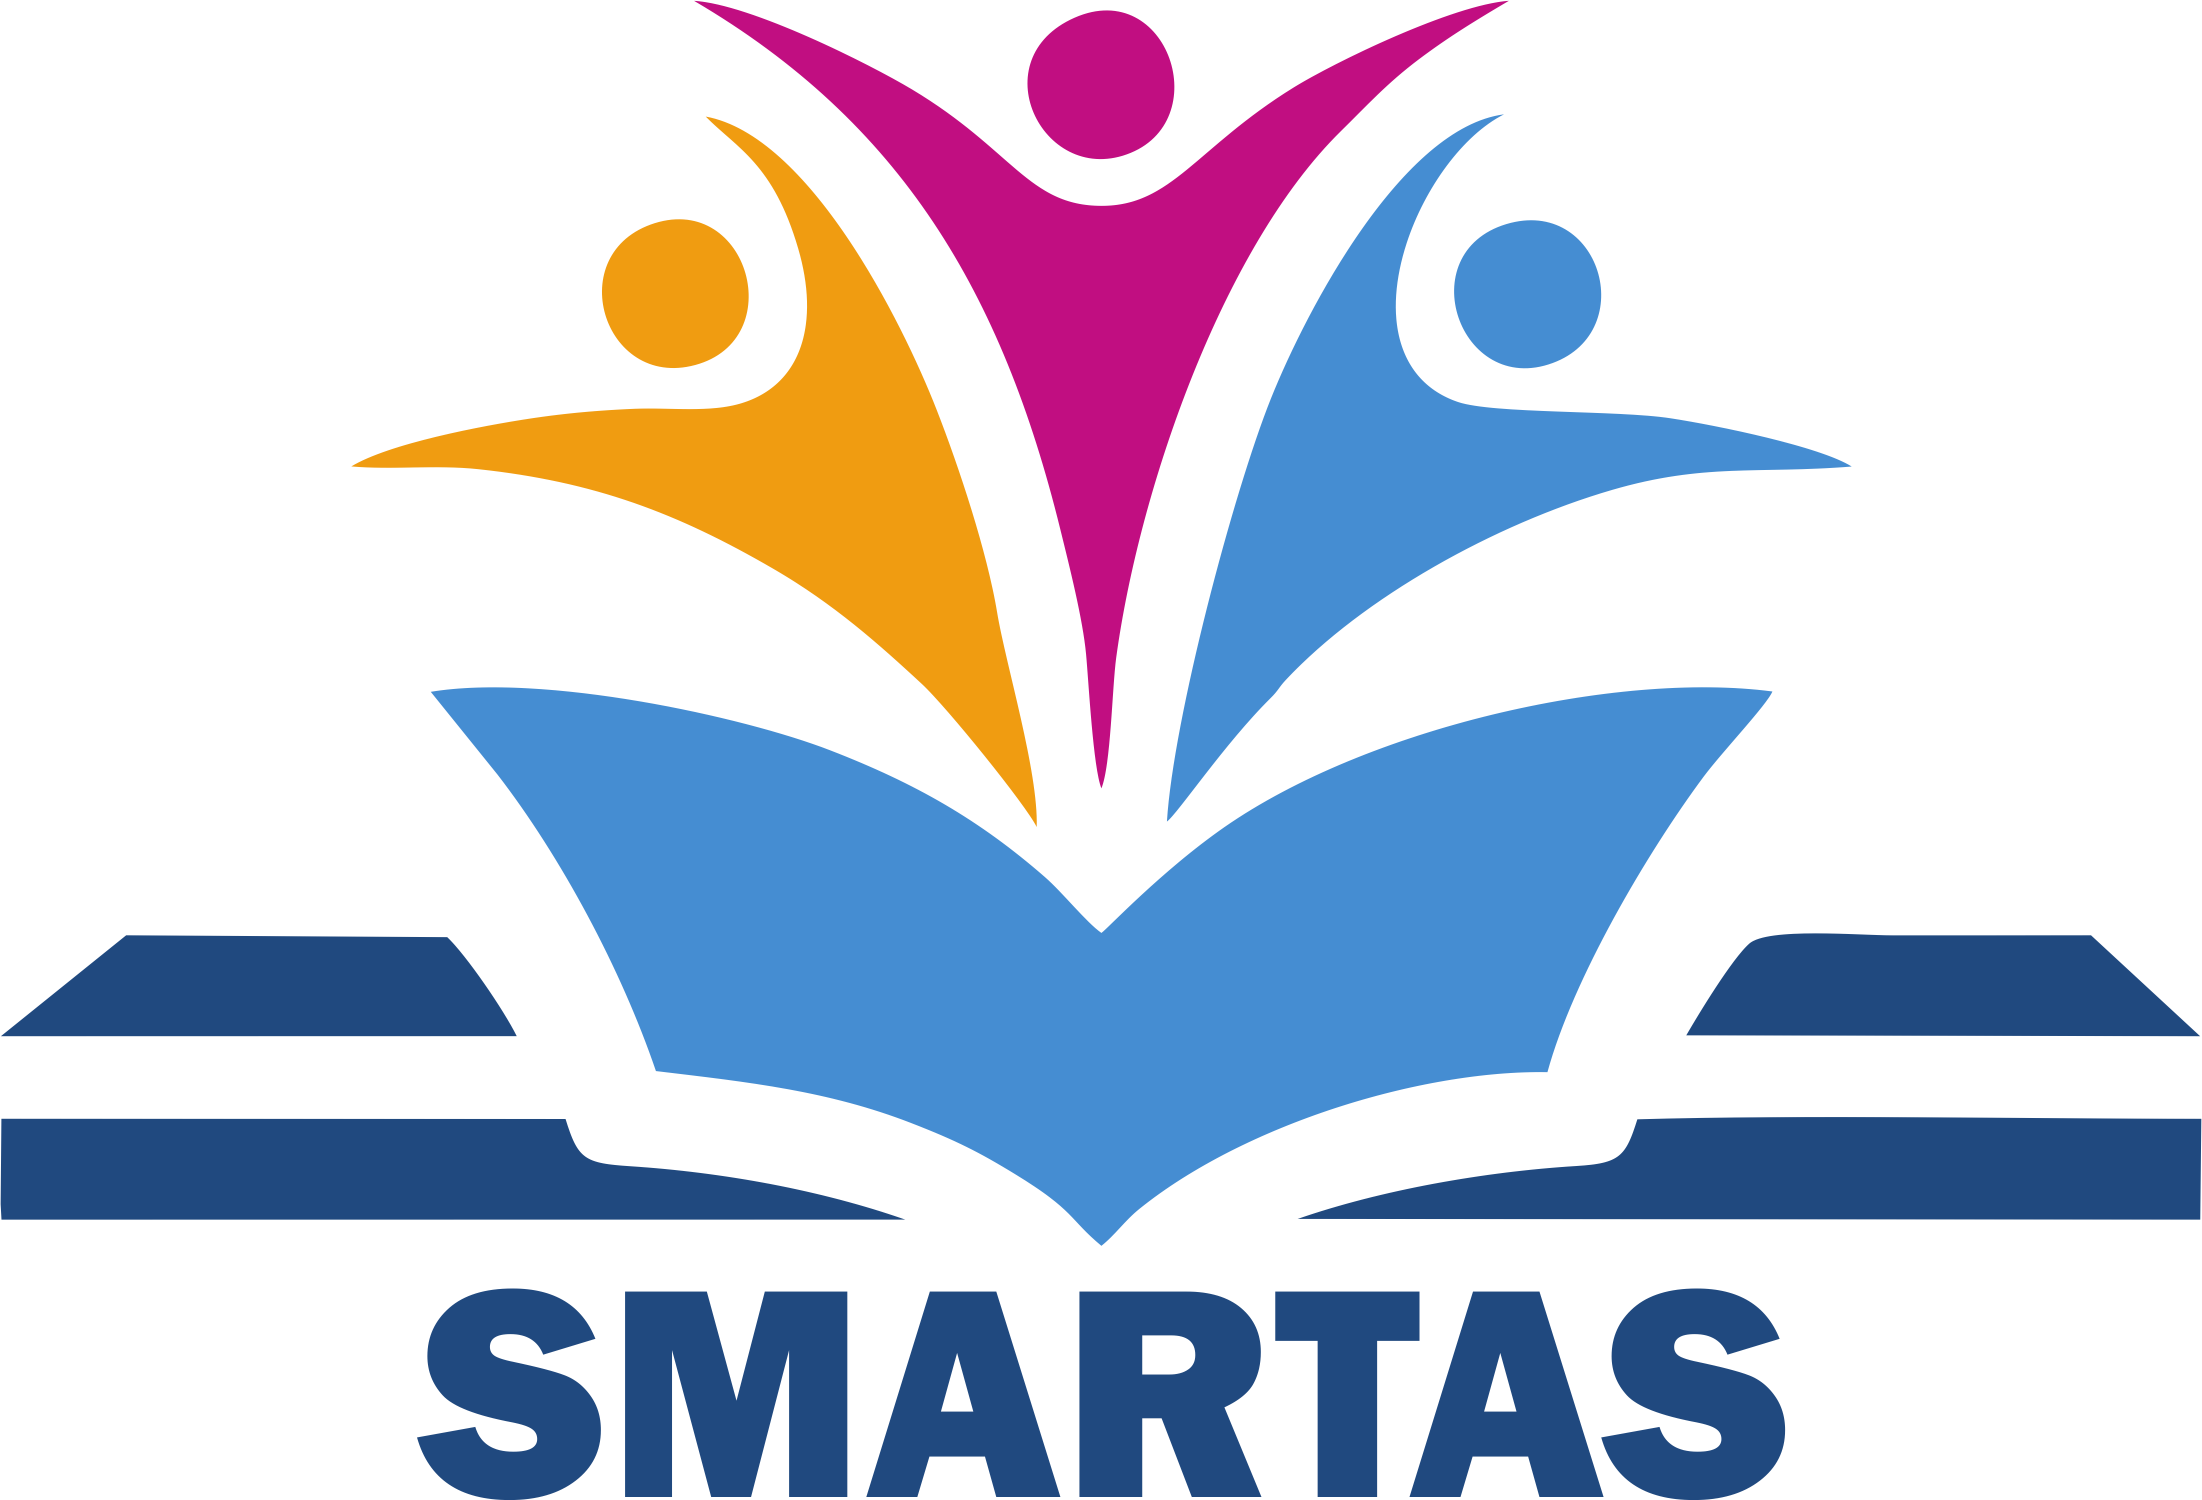
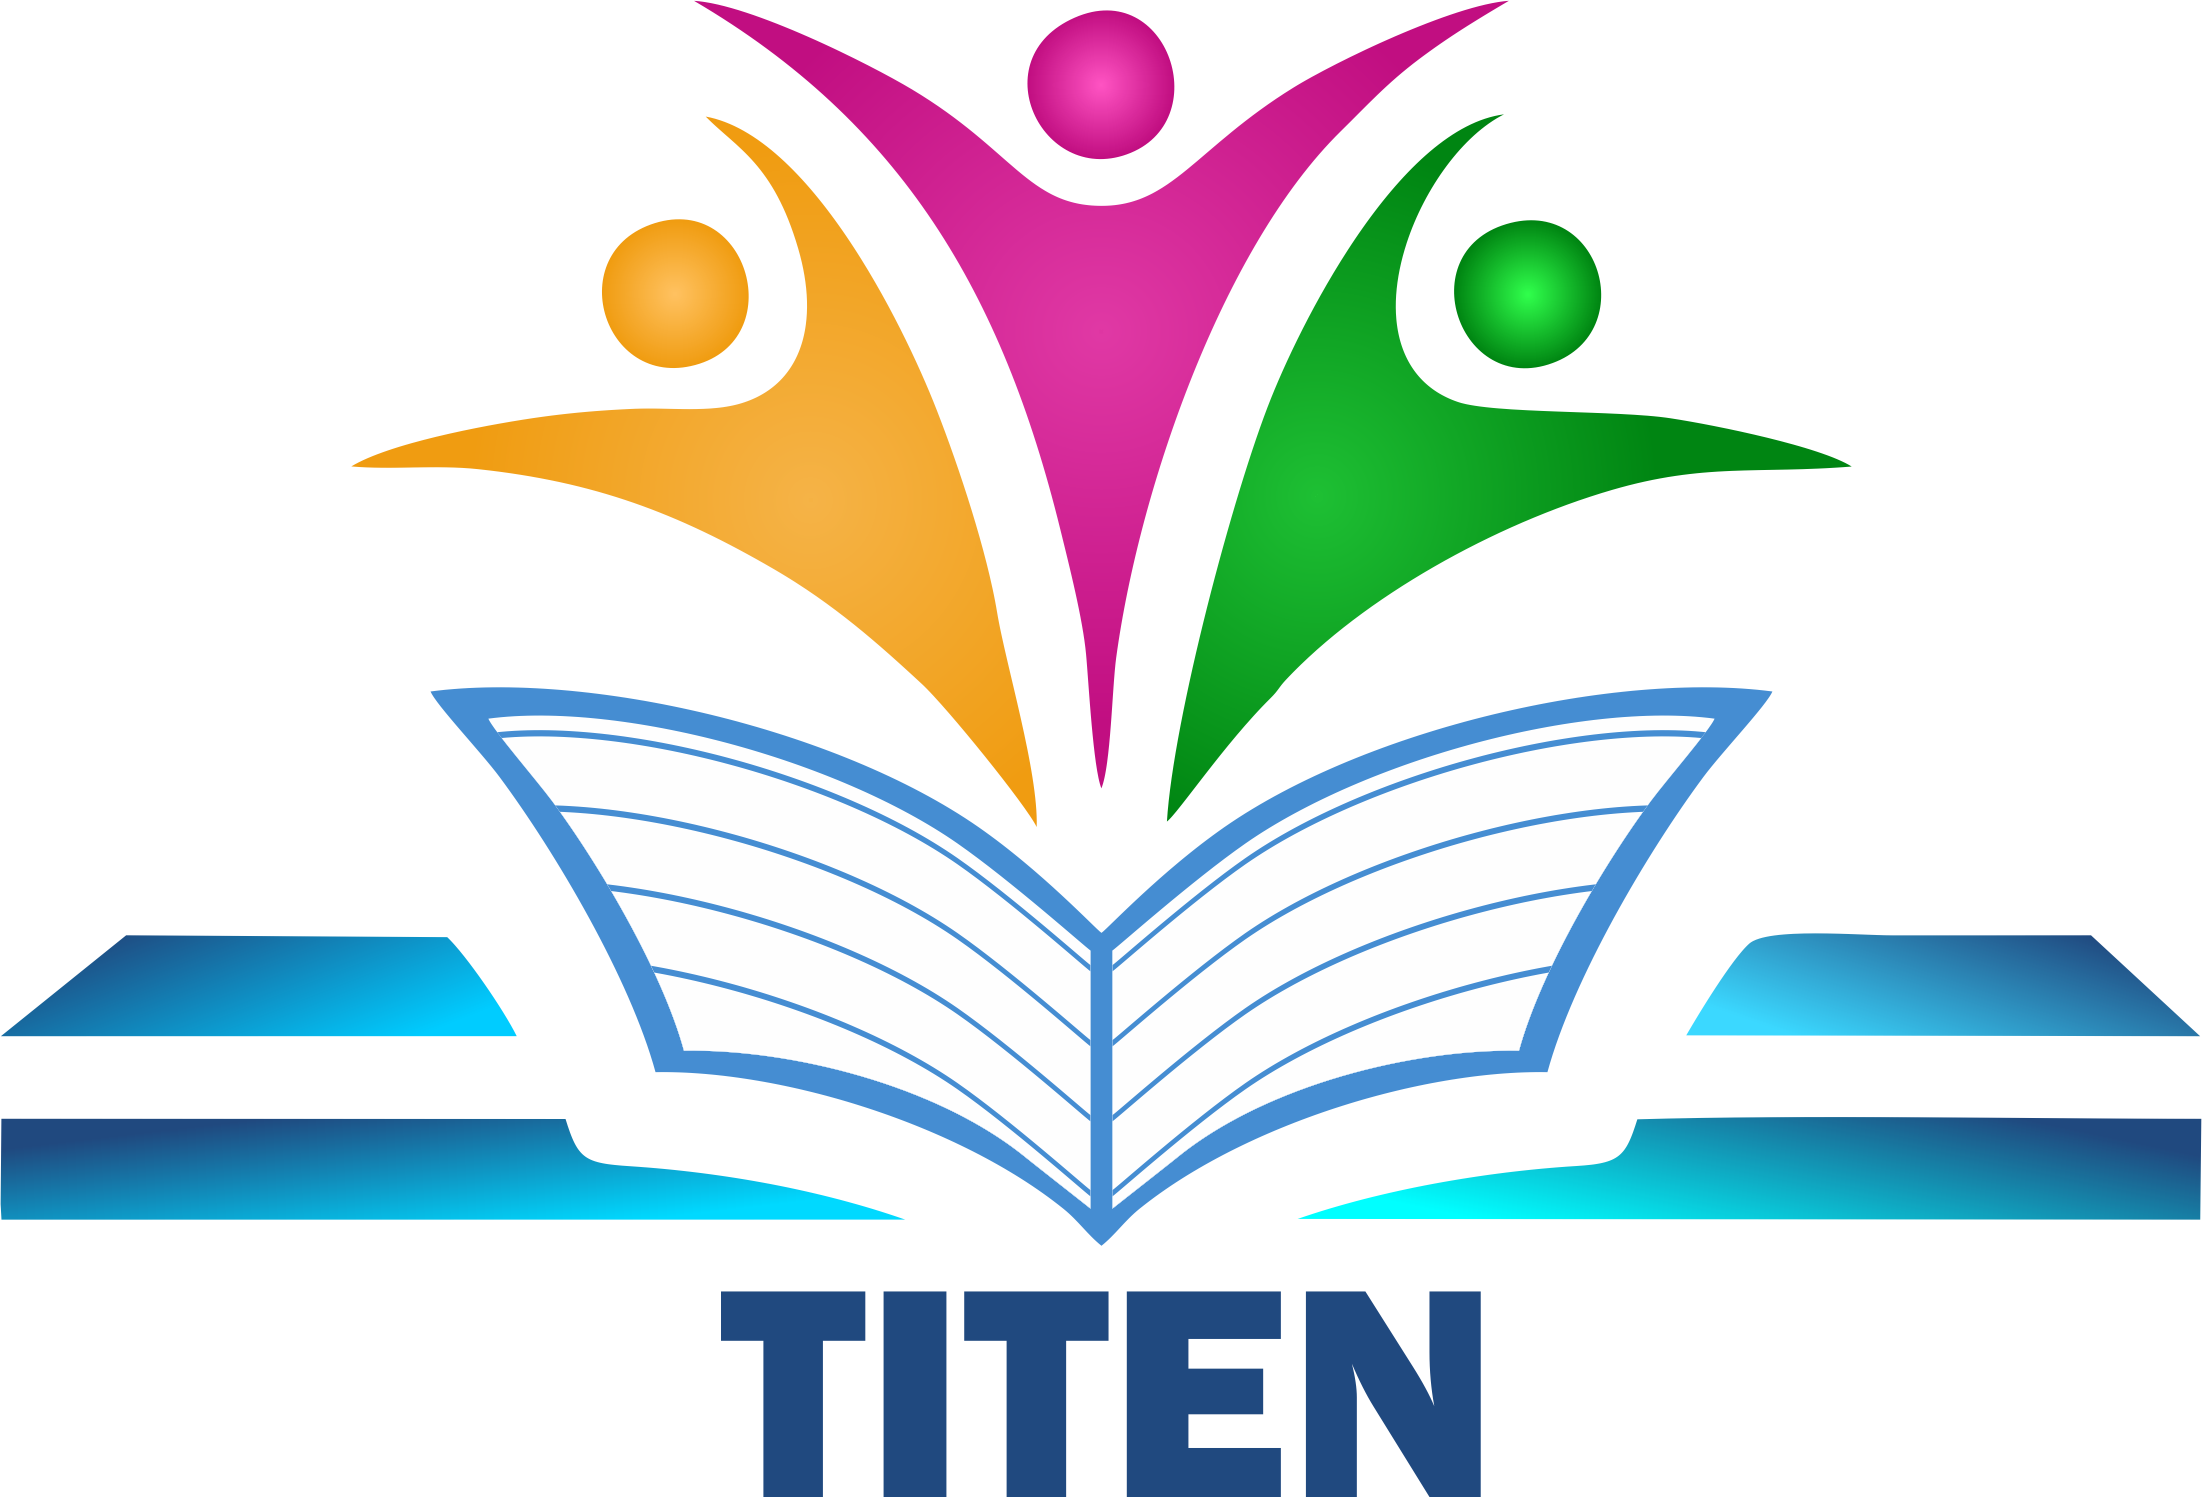
titen

diff --git a/src/components/layout/AppSidebar.tsx b/src/components/layout/AppSidebar.tsx
@@ -176,11 +176,11 @@ export function AppSidebar({ userRole, userName }: AppSidebarProps) {
           className={`py-5 px-6 flex flex-col items-center justify-center bg-white ${subtleTexture} relative after:absolute after:bottom-0 after:left-4 after:right-4 after:h-px after:bg-gradient-to-r after:from-transparent after:via-[#1591DC]/20 after:to-transparent`}
         >
           <div className="mb-0.5 flex items-center justify-center h-14 w-full text-center">
-            <img src="/New.png" alt="SMARTAS Logo" className="h-12 w-auto object-contain drop-shadow-md" />
+            <img src="/New.png" alt="TITEN Logo" className="h-12 w-auto object-contain drop-shadow-md" />
           </div>
           <div className="text-center group-data-[collapsible=icon]:hidden">
             <h2 className="text-xl font-black italic tracking-tighter bg-gradient-to-r from-[#2C5EAD] via-[#1591DC] to-[#4BB8FA] bg-clip-text text-transparent uppercase leading-[0.8]">
-              SMARTAS
+              TITEN
             </h2>
             <p className="text-[8px] font-bold uppercase tracking-[0.2em] text-[#4BB8FA] mt-1.5">
               {userRole || "Access"}

diff --git a/src/components/layout/AppLayout.tsx b/src/components/layout/AppLayout.tsx
@@ -32,7 +32,7 @@ export function AppLayout() {
             <div className="flex items-center gap-2">
               <img src="/New.png" alt="Logo" className="h-8 w-auto" />
               <span className="text-xl font-black italic tracking-tighter bg-gradient-to-r from-[#2C5EAD] via-[#1591DC] to-[#4BB8FA] bg-clip-text text-transparent uppercase leading-[0.8]">
-                SMARTAS
+                TITEN
               </span>
             </div>
 
